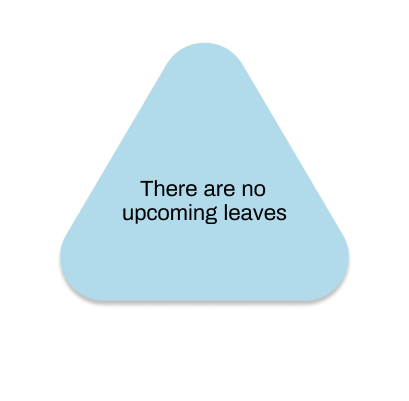
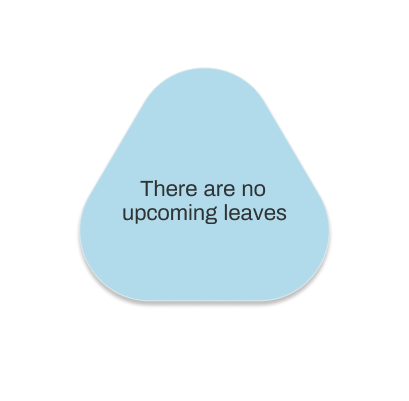
Adding Upcoming leaves implementation logic

diff --git a/Leave Planner Frontend/src/leaves-dashboard.js b/Leave Planner Frontend/src/leaves-dashboard.js
@@ -7,7 +7,7 @@ import NoUpcomingLeaves from './images/bull-upcoming.png'
 
 var days = ['Sun','Mon','Tue','Wed','Thu','Fri','Sat'];
 var month = ['Jan','Feb','Mar','Apr','May','Jun','Jul','Aug','Sep','Oct','Nov','Dec'];
-var displayLeaves=[];
+var displayUpcomingLeaves=[];
 var FontAwesome = require('react-fontawesome');
 class LeavesDashboard extends Component{
 
@@ -15,6 +15,7 @@ class LeavesDashboard extends Component{
         super(props);
         this.logoutFunction = this.logoutFunction.bind(this);
         this.getUpcomingLeaves = this.getUpcomingLeaves(this);
+        this.computeAndDisplayUpcomingLeaves = this.computeAndDisplayUpcomingLeaves.bind(this);
         this.state = {
             data : ""
         }
@@ -46,11 +47,9 @@ class LeavesDashboard extends Component{
         });
     }
 
-    render(){
-        const halfName = "Hello, "+JSON.parse(localStorage.getItem("studentToken")).name;
-        const displayName = <div className="positions end-texts">{halfName}</div>;
+    computeAndDisplayUpcomingLeaves(){
         if(this.state.data.length > 0){
-            displayLeaves.pop()
+            displayUpcomingLeaves.pop()
             for(var i=0;i<this.state.data.length;i++){
                 var leave = this.state.data[i];
                 if (leave.leaveDuration === 1){
@@ -62,10 +61,10 @@ class LeavesDashboard extends Component{
                     else{
                         dates = new Date(leave.leaveEndDate);
                     }
-                    displayLeaves.push(<div className="total-aligns">
+                    displayUpcomingLeaves.push(<div className="total-aligns-new">
                     <FontAwesome className="icon-styles" name="calendar"/><span className="big-text">{month[dates.getMonth()]} {dates.getDate()} </span>
-                    <span className="small-text">{days[dates.getDay()]}</span> <button id={leave.leaveId} className="empty-button edit-styles-one"> <FontAwesome name="edit"/></button> 
-                    <button id={leave.leaveId} className="empty-button trash-styles-one"><FontAwesome name="trash"/></button> 
+                    <span className="small-text">{days[dates.getDay()]}</span> <button id={leave.leaveId} className="empty-button edit-styles"> <FontAwesome name="edit"/></button> 
+                    <button id={leave.leaveId} className="empty-button trash-styles"><FontAwesome name="trash"/></button> 
                     <div className="downtown-texts"> {leave.leaveDuration} day {leave.leaveType.toLowerCase()}</div>
                     <div className="lines-new pad-lines-new"></div>
                     </div>);
@@ -95,7 +94,7 @@ class LeavesDashboard extends Component{
                         else if(daysOfWeek === 6)
                             endDate.setDate(endDate.getDate()-1);
                     }
-                    displayLeaves.push(<div className="total-aligns">
+                    displayUpcomingLeaves.push(<div className="total-aligns-new">
                     <FontAwesome className="icon-styles" name="calendar"/><span className="big-text">{month[startDate.getMonth()]} {startDate.getDate()} </span>
                     <span className="small-text">{days[startDate.getDay()]}</span><span className="big-text-hyphen"> - </span><span className="big-text">{month[endDate.getMonth()]} {endDate.getDate()} </span>
                     <span className="small-text">{days[endDate.getDay()]}</span> <button id={leave.leaveId} className="empty-button edit-styles"> <FontAwesome name="edit"/></button> 
@@ -105,11 +104,17 @@ class LeavesDashboard extends Component{
                     </div>);
                 }
             }
-        }
+        }        
         else{
-            if(displayLeaves.length === 0)
-                displayLeaves.push(<img className="img-loc" src={NoUpcomingLeaves} alt="No upcoming leaves"></img>);
+            if(displayUpcomingLeaves.length === 0)
+                displayUpcomingLeaves.push(<img className="img-loc" src={NoUpcomingLeaves} alt="No upcoming leaves"></img>);
         }
+    }
+
+    render(){
+        const halfName = "Hello, "+JSON.parse(localStorage.getItem("studentToken")).name;
+        const displayName = <div className="positions end-texts">{halfName}</div>;
+        this.computeAndDisplayUpcomingLeaves();
         return(
         <div>
             <img className="image-div" src={Logo} alt=""></img>
@@ -120,7 +125,7 @@ class LeavesDashboard extends Component{
                         <div className="leaves-rectangle"> 
                             <div className="texts size1 div1">Upcoming leaves</div>
                             <div className="lines-new"></div>
-                                <div className="total-aligns">{displayLeaves}</div> 
+                                <div className="total-aligns upcoming-leaves">{displayUpcomingLeaves}</div> 
                         </div>
                     </div>
                 </div>

diff --git a/Leave Planner Frontend/src/leaves-dashboard.css b/Leave Planner Frontend/src/leaves-dashboard.css
@@ -71,32 +71,31 @@
     top:3%;
 }
 
-.edit-styles{
+.total-aligns-new{
     position: relative;
+    padding-top: 5%;
+}
+
+.upcoming-leaves{
+    max-height: 650px;
+    overflow: hidden;
+    overflow-y: auto;
+    scrollbar-color: #aeaeae;
+    scrollbar-width: thin;
+}
+
+.edit-styles{
     color: #10A6DC;
-    left: 19.5%;
     font-size: 22px;
+    float: right;
+    margin-right: 13%;
 }
 
 .trash-styles{
-    position: relative;
     color: #10A6DC;
-    left: 21.5%;
     font-size: 22px;
-}
-
-.edit-styles-one{
-    position: relative;
-    color: #10A6DC;
-    left: 46%;
-    font-size: 22px;
-}
-
-.trash-styles-one{
-    position: relative;
-    color: #10A6DC;
-    left: 48%;
-    font-size: 22px;
+    float: right;
+    margin-right: -18%;
 }
 
 .img-loc{
